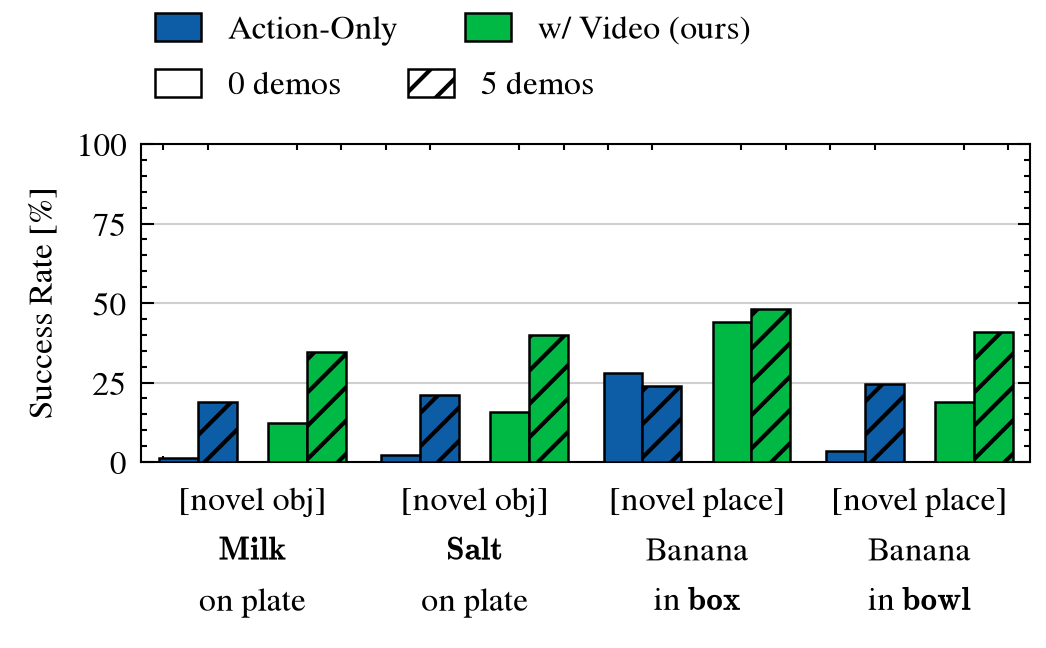
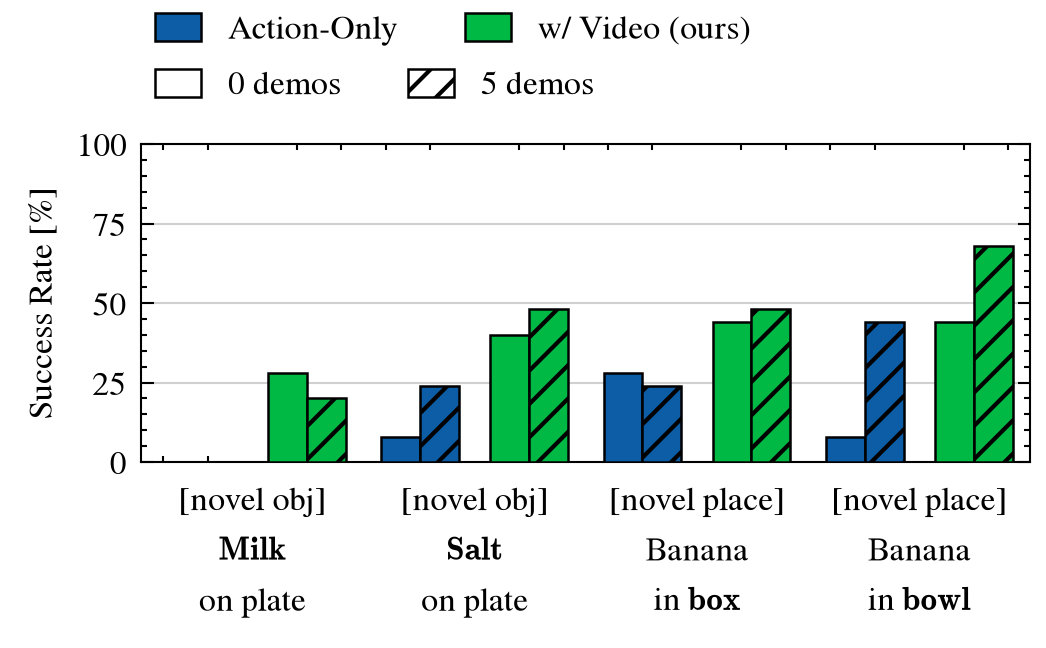
Add real all-task evaluation data

diff --git a/plot_realworld_bars.py b/plot_realworld_bars.py
@@ -19,11 +19,6 @@ two methods at the *same* budget -- is no longer adjacent, so reading the gap at
 fill `offsets` to get budget-major ordering back, which pairs the methods at
 each budget instead.
 
-DUMMY DATA. ``results/realworld_alltasks.csv`` still contains placeholders at
-10-decimal precision for tasks whose runs have not landed, so the layout can be
-reviewed before those runs finish. The file is flagged with a ``# DUMMY DATA``
-header line and the script prints a banner while any placeholders remain.
-
 EMBEDDING IN LATEX
 ------------------
 Built at 3.487in = \columnwidth (252pt, per IEEEtran journal mode), so it is a
@@ -32,10 +27,9 @@ plain figure, not a figure*. Needs \usepackage{graphicx}.
     \begin{figure}[t]
       \centering
       \includegraphics[width=\columnwidth]{figures/realworld_alltasks.pdf}
-      \caption{Real-world success rate on four manipulation tasks, at two
-      demonstration budgets. Video pretraining helps most where
-      robot data is scarcest: at zero demonstrations the action-only policy is
-      near chance on every task.}
+      \caption{Real-world success rate over 25 rollouts on four manipulation
+      tasks, at two demonstration budgets. Video pretraining improves success
+      on every task at both budgets.}
       \label{fig:realworld_alltasks}
     \end{figure}
 
